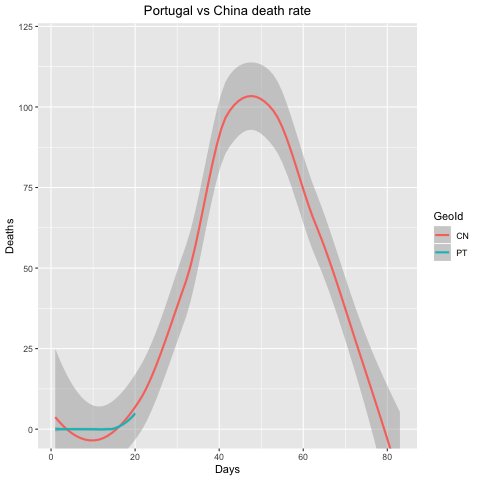
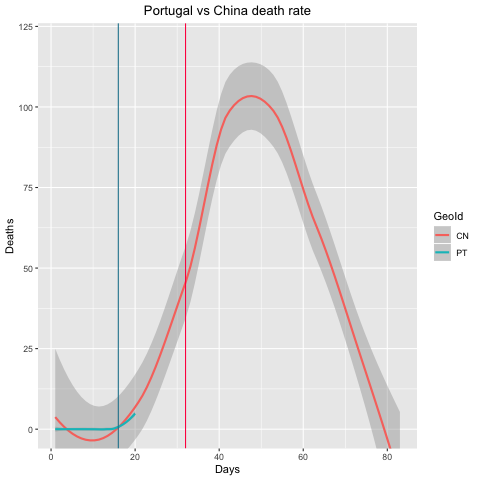
add data for the limit capacity of the portuguese hospitals

Changed region(s): [[0.2188, 0.0625, 0.25, 0.9375]]

diff --git a/README.md b/README.md
@@ -36,6 +36,7 @@ Vertical Lines represent the **emergency state** declaration for CN (red) and PT
 
 Vertical Lines represent the **emergency state** declaration for CN (red) and PT (blue).
 
+With the script `PT_hospitals_capacity.R` , we can check how many available beds are in the Portuguese hospitals in the present day. As for January 2020 we have about **2389** available hospital beds in Portugal, hopefully more due to the COVID-19 preparations.
 
 __Be safe,__
 
